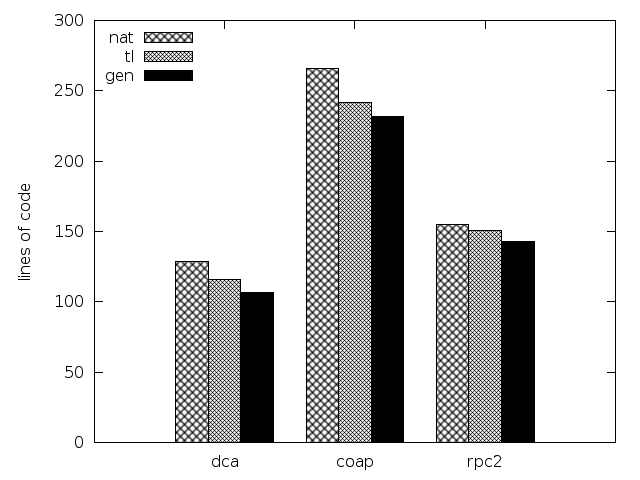
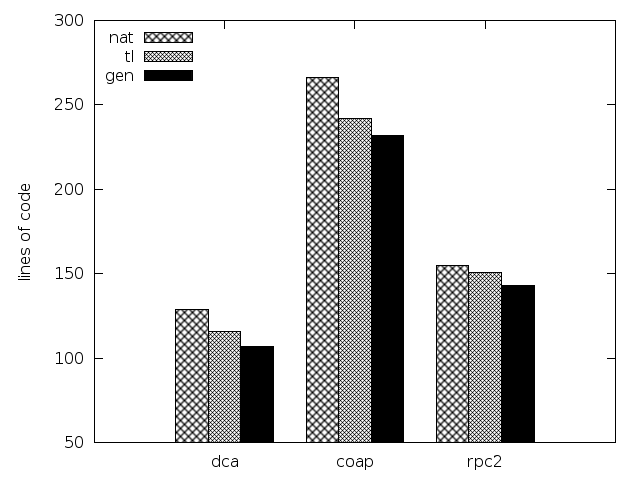
shortening y-axis of some plots

diff --git a/applications/contiki/plots/text.py b/applications/contiki/plots/text.py
@@ -15,7 +15,7 @@ set datafile missing '-'
 
 set key right 
 set auto x
-set yrange [40000:47000]
+set yrange [42000:47000]
 set ylabel "text [bytes]"
 set xlabel "dca                       coap                       rpc"
 

diff --git a/applications/contiki/plots/cpu.py b/applications/contiki/plots/cpu.py
@@ -12,7 +12,7 @@ set style fill pattern 1 border
 
 set key left
 set auto x
-set yrange [600000:820000]
+set yrange [650000:820000]
 
 set ylabel "CPU cycles"
 

diff --git a/applications/contiki/plots/loc.py b/applications/contiki/plots/loc.py
@@ -13,7 +13,7 @@ set style fill pattern 1 border
 
 set key left
 set auto x
-set yrange [0:*]
+set yrange [50:*]
 
 set ylabel "lines of code"
 
